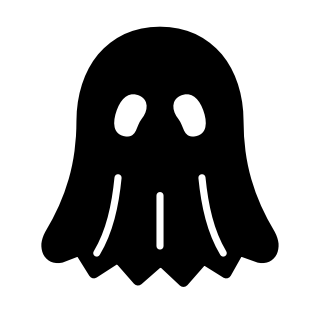
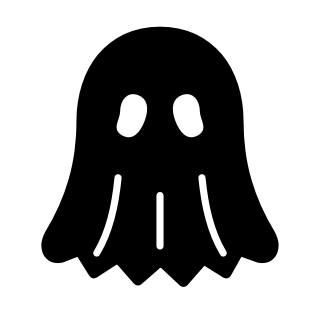
Ghost's jellybean eyes dented on the outside (local only)

diff --git a/art/source/piece_options/make_final_ghost_bard_werewolf.py b/art/source/piece_options/make_final_ghost_bard_werewolf.py
@@ -30,8 +30,8 @@ def ghost(team):
     out += detail("M 16.6,25 C 16.2,29 15.4,32.6 13.6,35.6 M 28.4,25 C 28.8,29 29.6,32.6 31.4,35.6 "
                   "M 22.5,27.5 L 22.5,34.6", inner(team), 1.0)
     eye = inner(team)
-    # Sad eyes (Mac): tall jellybeans, dented on the inside, their tops leaning in.
-    for cx, lean, flip in ((18.4, 20, 1), (26.6, -20, -1)):
+    # Sad eyes (Mac): tall jellybeans, dented on the outside, their tops leaning in.
+    for cx, lean, flip in ((18.4, 20, -1), (26.6, -20, 1)):
         out += '<g transform="translate(%s 16.2) rotate(%s) scale(%s 1)">%s</g>' % (cx, lean, flip, shape(JELLYBEAN, eye, "none"))
     return out
 

diff --git a/CLAUDE.md b/CLAUDE.md
@@ -136,7 +136,7 @@ Mac: don't push or deploy any of this until he says so. Commit on `new-pieces`; 
 * Special rules: Parapet (PA, 3, Castle; sideways slide + diagonal step; `blocks_jumps`: nothing leaps over it, Knights count as 2 straight then 1, no Cannon screen), Vampire (V, 4; sideways/back slides, diagonal forward step; `shield_on_capture`, FEN `+`, small blue shield drawn on its square), Squire (SQ, 3; 2 straight or 1 diagonal; `protects ["knight"]`: Knights it could reach can't be captured), Jester (J, 4; moves 2, captures 1, any direction; `decoy`: takes the hit for a non-pawn piece it could reach, swapping places).
 * Abilities (once per game, uses the turn): Ghost (G, 3, diagonal step or 1 forward; HAUNT, pale blue -> icy white: once captured, on a later turn it comes back on ANY empty square; button shows with nothing selected; no rings, the captured Ghost glows in the captures row (`CapturedRow.haunting`) while choosing; can give check). Bard (BD, 3.5, up to 4 diagonally; SONG_OF_SLUMBER, gold -> amber: an enemy piece it could capture (not a king) can't move on the next turn; `GameState.frozen_piece()` = last move's `frozen`; "Zz" on it; a sleeping piece doesn't give check (lifted off the board in the legality check), so singing to a checking piece answers check). Werewolf (WW, 3, as the Ghost; FULL_MOON, moon white -> silver: becomes `transforms_into` = `res://data/pieces/forms/werewolf_wolf.tres` (WF; 1 sideways or back, up to 2 forward or diagonally forward, blocked) for good; `Piece.base_def` / `starting_def()` so Raise Dead brings back a Werewolf; the piece card has an "After Full Moon" / "Before Full Moon" button (`PieceCard.turn_over`)).
 * Sounds: LULLABY and HAUNT made in code; HOWL = `res://audio/sfx/wolf_howl.wav`, cut from a public-domain U.S. Fish and Wildlife Service recording (Wikimedia Commons "Wolf howls.ogg", licence note beside it). `GameSounds.recording()` loads .ogg or .wav.
-* Art (final, `art/source/piece_options/make_final_*.py`): Princess crown, Galleon, Catapult, Assassin daggers, Parapet wall, Vampire bat, Squire saddle, Jester cap, Ghost (bedsheet ghost with sad jellybean eyes, no brows), Bard (lyre, evenly spaced strings), Werewolf (the Man's coif with wolf ears and three fur tufts a side), wolf (round 22 maned wolf keeping spikes 2, 4 and 6 of its six, no ear lines, top tooth only). All in `make_final_ghost_bard_werewolf.py` for the last batch.
+* Art (final, `art/source/piece_options/make_final_*.py`): Princess crown, Galleon, Catapult, Assassin daggers, Parapet wall, Vampire bat, Squire saddle, Jester cap, Ghost (bedsheet ghost with sad jellybean eyes dented on the outside, no brows), Bard (lyre, evenly spaced strings), Werewolf (the Man's coif with wolf ears and three fur tufts a side), wolf (round 22 maned wolf keeping spikes 2, 4 and 6 of its six, no ear lines, top tooth only). All in `make_final_ghost_bard_werewolf.py` for the last batch.
 
 ## Open questions for Mac (noted, to decide later)
 
